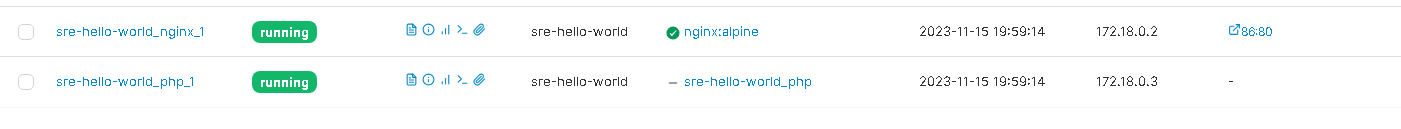
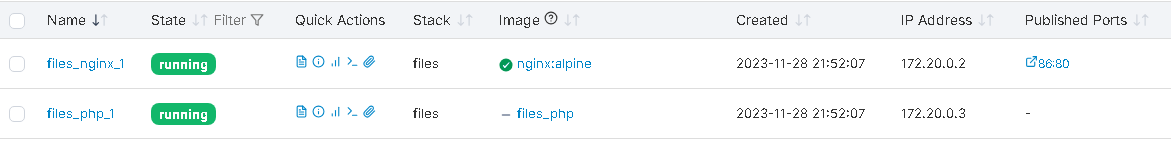
add readme and img

diff --git a/README.md b/README.md
@@ -11,188 +11,47 @@ git clone https://github.com/AleksTurbo/sre-hello-world
 cd sre-hello-world
 ```
 
-### Настраиваем конфигурационные файлы:
+### Процесс установки разбит на отдельные роли:
 
-* [.env](.env)
+- Установка и подготовка сервера баз данных postgresql
+- Установка и настройка web-сервера nginx с конфигурацией проброса подключений
+- Подготовка среды docker
+- Разворачивание приложения
+
+### Настраиваем общие конфигурационные файлы:
+
 * [hosts](hosts)
-* [default.yml](vars/default.yml)
+
+### Настраиваем конфигурационные файлы для postgresql:
+
+* [.env](postgresql/vars/.env)
+* [main.yml](postgresql/vars/main.yml)
+
+### Настраиваем конфигурационные файлы для nginx:
+
+* [main.yml](nginx/vars/main.yml)
+
+### Настраиваем конфигурационные файлы для приложения:
+
+* [.env](app/files/.env)
+* [main.yml](app/vars/main.yml)
 
 ## Развертывание
 
-1 - Инсталяция сервера базы данных и тестового содержимого:
+Инсталяция сервера базы данных и тестового содержимого:
 
 ```shell
-root@linuxsrv:~/sre-hello-world# ansible-playbook 1-pginstall.yaml -i hosts
-
-PLAY [postgresql demdeploy] ****************************************************************************************************************************************************
-
-TASK [Gathering Facts] *********************************************************************************************************************************************************
-ok: [localhost]
-
-TASK [Install packages] ********************************************************************************************************************************************************
-ok: [localhost]
-
-TASK [Check if PostgreSQL is initialized] **************************************************************************************************************************************
-ok: [localhost]
-
-TASK [Empty data dir] **********************************************************************************************************************************************************
-skipping: [localhost]
-
-TASK [Initialize PostgreSQL] ***************************************************************************************************************************************************
-skipping: [localhost]
-
-TASK [Start and enable service] ************************************************************************************************************************************************
-ok: [localhost]
-
-TASK [Create app database] *****************************************************************************************************************************************************
-ok: [localhost]
-
-PLAY RECAP *********************************************************************************************************************************************************************
-localhost                  : ok=5    changed=0    unreachable=0    failed=0    skipped=2    rescued=0    ignored=0
-
-```
-
-2 - Инсталяция прокси-web-сервера nginx
-
-```shell
-root@linuxsrv:~/sre-hello-world# ansible-playbook 2-nginx-install.yaml -i hosts
-
-PLAY [all] *********************************************************************************************************************************************************************
-
-TASK [Gathering Facts] *********************************************************************************************************************************************************
-ok: [localhost]
-
-TASK [Install Prerequisites] ***************************************************************************************************************************************************
-ok: [localhost] => (item=aptitude)
-
-TASK [Install Packages] ********************************************************************************************************************************************************
-ok: [localhost] => (item=nginx)
-ok: [localhost] => (item=php-fpm)
-
-TASK [Sets Nginx conf file] ****************************************************************************************************************************************************
-changed: [localhost]
-
-TASK [Sets Nginx index file] ***************************************************************************************************************************************************
-ok: [localhost]
-
-TASK [Enables new site] ********************************************************************************************************************************************************
-ok: [localhost]
-
-TASK [Removes "default" site] **************************************************************************************************************************************************
-ok: [localhost]
-
-TASK [UFW - Allow HTTP on port 86] *********************************************************************************************************************************************
-ok: [localhost]
-
-PLAY RECAP *********************************************************************************************************************************************************************
-localhost                  : ok=8    changed=1    unreachable=0    failed=0    skipped=0    rescued=0    ignored=0
-
-```
-
-- проверка этапа:
-
-```shell
-root@linuxsrv:~/sre-hello-world# ansible-playbook check_nginx_status.yaml -i hosts
-
-PLAY [all] *********************************************************************************************************************************************************************
-
-TASK [Gathering Facts] *********************************************************************************************************************************************************
-ok: [localhost]
-
-TASK [Make sure nginx.service unit is running] *********************************************************************************************************************************
-ok: [localhost]
-
-PLAY RECAP *********************************************************************************************************************************************************************
-localhost                  : ok=2    changed=0    unreachable=0    failed=0    skipped=0    rescued=0    ignored=0
-
-```
-
-
-3 - Инсталяция docker окружения и среды
-
-```shell
-root@linuxsrv:~/sre-hello-world# ansible-playbook 3-appinstall.yaml -i hosts
-
-PLAY [app-php docker install] **************************************************************************************************************************************************
-
-TASK [Gathering Facts] *********************************************************************************************************************************************************
-ok: [localhost]
-
-TASK [Install packages pip] ****************************************************************************************************************************************************
-ok: [localhost]
-
-TASK [Install python and pip] **************************************************************************************************************************************************
-ok: [localhost]
-
-TASK [Install docker sdk] ******************************************************************************************************************************************************
-ok: [localhost]
-
-TASK [Start docker service] ****************************************************************************************************************************************************
-ok: [localhost]
-
-PLAY RECAP *********************************************************************************************************************************************************************
-localhost                  : ok=5    changed=0    unreachable=0    failed=0    skipped=0    rescued=0    ignored=0
-
-```
-
-- проверка этапа:
-
-```shell
-
-root@linuxsrv:~/sre-hello-world# docker -v
-Docker version 24.0.7, build afdd53b
-
-root@linuxsrv:~/sre-hello-world# systemctl status docker
-● docker.service - Docker Application Container Engine
-     Loaded: loaded (/lib/systemd/system/docker.service; enabled; vendor preset: enabled)
-     Active: active (running) since Wed 2023-11-15 11:39:13 UTC; 5h 14min ago
-TriggeredBy: ● docker.socket
-       Docs: https://docs.docker.com
-   Main PID: 987 (dockerd)
-      Tasks: 10
-     Memory: 96.3M
-        CPU: 4.665s
-     CGroup: /system.slice/docker.service
-             └─987 /usr/bin/dockerd -H fd:// --containerd=/run/containerd/containerd.sock
-
-Nov 15 11:39:11 linuxsrv dockerd[987]: time="2023-11-15T11:39:11.853305093Z" level=info msg="Starting up"
-Nov 15 11:39:11 linuxsrv dockerd[987]: time="2023-11-15T11:39:11.857301163Z" level=info msg="detected 127.0.0.53 nameserver, assuming systemd-resolved, so using resolv.conf: />
-Nov 15 11:39:12 linuxsrv dockerd[987]: time="2023-11-15T11:39:12.185398252Z" level=info msg="[graphdriver] using prior storage driver: overlay2"
-Nov 15 11:39:12 linuxsrv dockerd[987]: time="2023-11-15T11:39:12.200903455Z" level=info msg="Loading containers: start."
-Nov 15 11:39:12 linuxsrv dockerd[987]: time="2023-11-15T11:39:12.863274433Z" level=info msg="Default bridge (docker0) is assigned with an IP address 172.17.0.0/16. Daemon opti>
-Nov 15 11:39:12 linuxsrv dockerd[987]: time="2023-11-15T11:39:12.977759493Z" level=info msg="Loading containers: done."
-Nov 15 11:39:13 linuxsrv dockerd[987]: time="2023-11-15T11:39:13.097680571Z" level=info msg="Docker daemon" commit=311b9ff graphdriver=overlay2 version=24.0.7
-Nov 15 11:39:13 linuxsrv dockerd[987]: time="2023-11-15T11:39:13.100975618Z" level=info msg="Daemon has completed initialization"
-Nov 15 11:39:13 linuxsrv systemd[1]: Started Docker Application Container Engine.
-Nov 15 11:39:13 linuxsrv dockerd[987]: time="2023-11-15T11:39:13.190192783Z" level=info msg="API listen on /run/docker.sock"
-
-```
-
-4 - Разворачивание приложения в docker
-
-```shell
-root@linuxsrv:~/sre-hello-world# ansible-playbook 4-docker-image-playbook.yaml -i hosts
-
-PLAY [all] *********************************************************************************************************************************************************************
-
-TASK [Gathering Facts] *********************************************************************************************************************************************************
-ok: [localhost]
-
-TASK [deploy Docker Compose stack] *********************************************************************************************************************************************
-changed: [localhost]
-
-PLAY RECAP *********************************************************************************************************************************************************************
-localhost                  : ok=2    changed=1    unreachable=0    failed=0    skipped=0    rescued=0    ignored=0
+root@linuxsrv:~/sre-hello-world# ansible-playbook install.yml -i hosts
 
 ```
 
 - проверка работоспособности:
 
 ```shell
-root@linuxsrv:~/sre-hello-world# docker ps
-CONTAINER ID   IMAGE                    COMMAND                      CREATED       STATUS          PORTS                                     NAMES
-41170ab73def   nginx:alpine          "/docker-entrypoint.…"   56 minutes ago   Up 56 minutes   0.0.0.0:86->80/tcp, :::86->80/tcp    sre-hello-world_nginx_1
-8f2e69777c3e   sre-hello-world_php   "docker-php-entrypoi…"   56 minutes ago   Up 56 minutes   9000/tcp                             sre-hello-world_php_1
+root@linuxsrv:/# docker ps
+CONTAINER ID   IMAGE                   COMMAND           CREATED   STATUS            PORTS                            NAMES
+b382ade821d1   nginx:alpine  "/docker-entrypoint.…"   12 hours ago   Up 12 hours   0.0.0.0:86->80/tcp, :::86->80/tcp  files_nginx_1
+95283721d43b   files_php     "docker-php-entrypoi…"   12 hours ago   Up 12 hours   9000/tcp                           files_php_1
 
 ```
 
@@ -203,7 +62,14 @@ CONTAINER ID   IMAGE                    COMMAND                      CREATED    
 ![nginx proxy](img/nginx-proxy.PNG)
 
 
-### Для обновления версии приложения - обновляем содержимое репозиторияи проводим этап №4
+### Для обновления версии приложения - выполняем сценарий обновления:
 
+#### Настраиваем конфигурационные файлы для источника обновления:
 
+* [main.yml](app-upd/vars/main.yml)
 
+```shell
+root@linuxsrv:~/sre-hello-world# ansible-playbook app-apdate.yml -i hosts
+```
+
+![nginx proxy](img/app-upd-in-docker.PNG)
